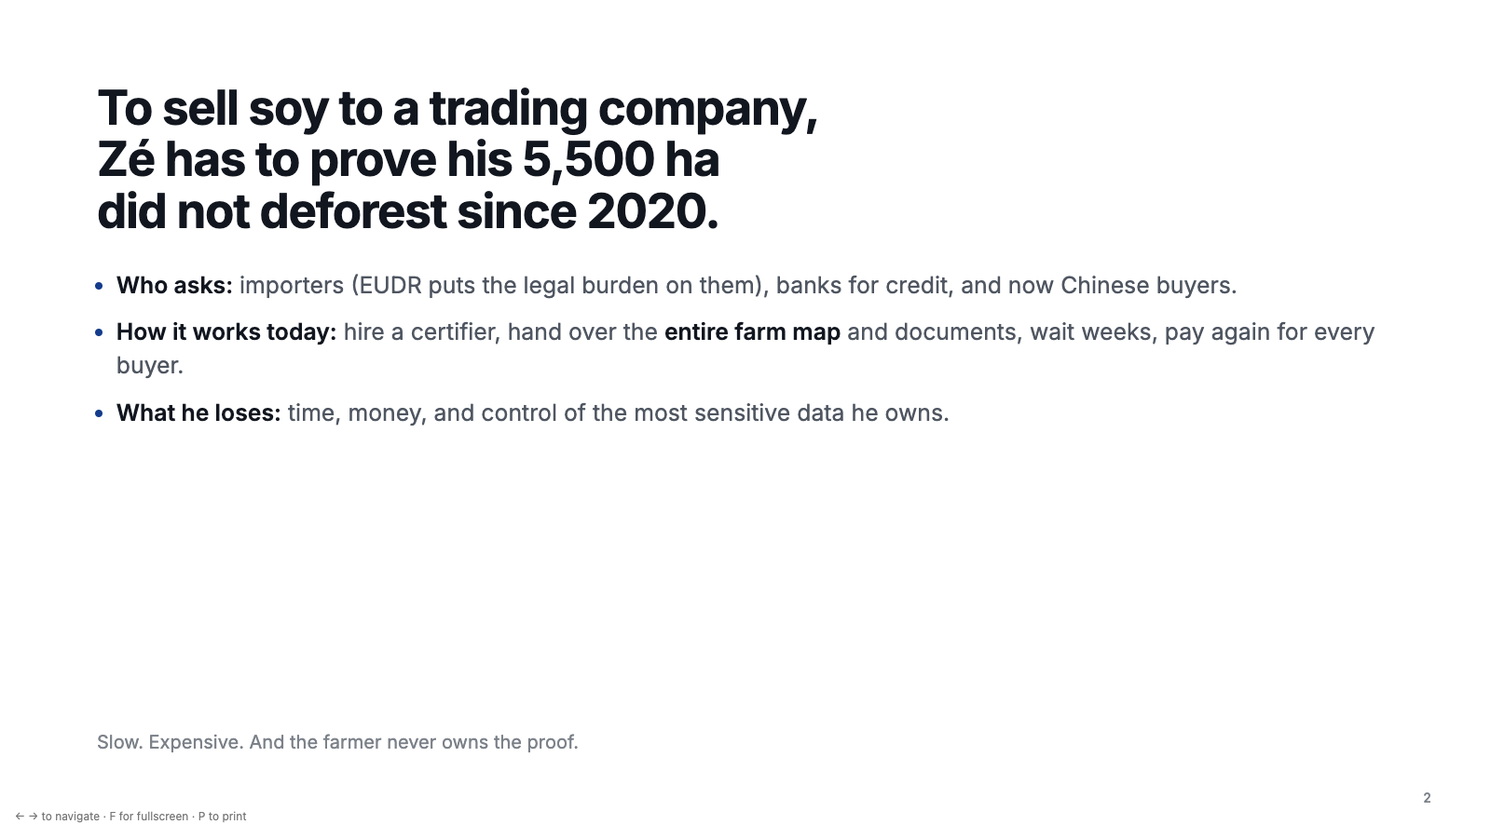
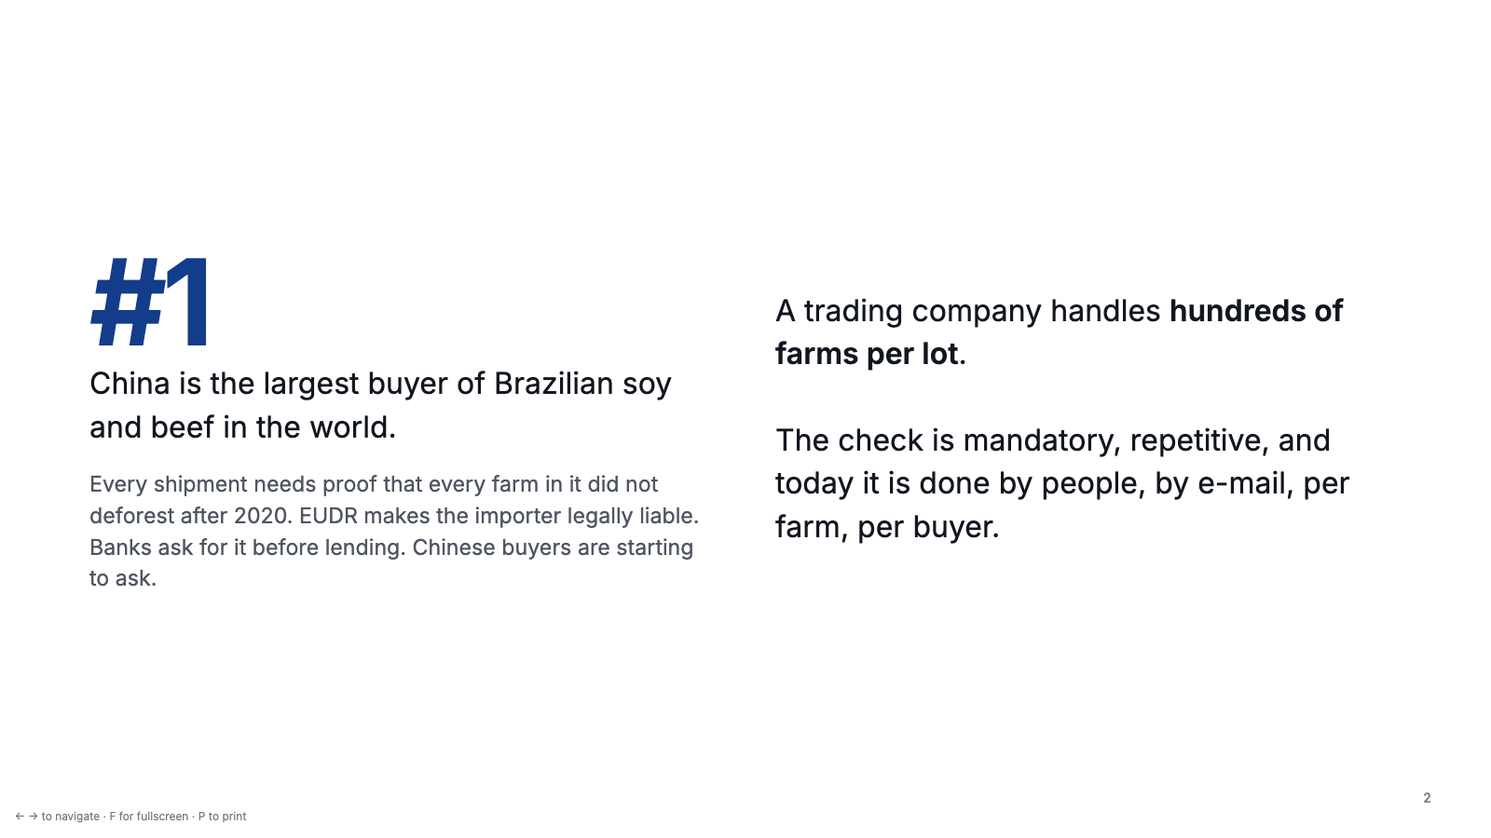
Console: PRODES layer off by default with toggle; slides: trade today vs now, AI/chain split

diff --git a/docs/slides/index.html b/docs/slides/index.html
@@ -8,37 +8,55 @@
 <link href="https://fonts.googleapis.com/css2?family=Inter:wght@400;500;600;700&family=JetBrains+Mono:wght@400;500&display=swap" rel="stylesheet" />
 <style>
   :root { --ink: oklch(0.2 0.02 260); --ink-2: oklch(0.45 0.02 260); --ink-3: oklch(0.6 0.015 260); --line: oklch(0.9 0.006 260);
-          --primary: oklch(0.38 0.14 262); --ok: oklch(0.52 0.15 150); --bad: oklch(0.55 0.19 27); --bg: #fff; }
+          --primary: oklch(0.38 0.14 262); --primary-soft: oklch(0.95 0.03 262); --ok: oklch(0.52 0.15 150); --ok-soft: oklch(0.95 0.05 150); --bad: oklch(0.55 0.19 27); --bad-soft: oklch(0.95 0.04 27); --bg: #fff; }
   * { box-sizing: border-box; }
   html, body { margin: 0; height: 100%; background: #111; font-family: Inter, system-ui, sans-serif; color: var(--ink); }
   .deck { height: 100%; display: grid; place-items: center; }
-  .slide { display: none; width: min(100vw, 177.78vh); aspect-ratio: 16/9; background: var(--bg); padding: 5.5% 6.5%; position: relative; overflow: hidden; }
+  .slide { display: none; width: min(100vw, 177.78vh); aspect-ratio: 16/9; background: var(--bg); padding: 5% 6%; position: relative; overflow: hidden; }
   .slide.on { display: flex; flex-direction: column; }
   .slide .n { position: absolute; right: 4%; bottom: 4%; font: 500 0.9vw/1 'JetBrains Mono', monospace; color: var(--ink-3); }
   h1 { font-size: 5.2vw; font-weight: 700; letter-spacing: -0.03em; line-height: 1.02; margin: 0; text-wrap: balance; }
-  h2 { font-size: 3.2vw; font-weight: 700; letter-spacing: -0.025em; line-height: 1.08; margin: 0 0 2.2vw; text-wrap: balance; max-width: 30ch; }
-  p, li { font-size: 1.55vw; line-height: 1.45; color: var(--ink-2); margin: 0; }
-  ul { margin: 0; padding-left: 1.3em; display: grid; gap: 0.9vw; }
+  h2 { font-size: 3vw; font-weight: 700; letter-spacing: -0.025em; line-height: 1.08; margin: 0 0 1.8vw; text-wrap: balance; max-width: 32ch; }
+  p, li { font-size: 1.45vw; line-height: 1.45; color: var(--ink-2); margin: 0; }
+  ul { margin: 0; padding-left: 1.3em; display: grid; gap: 0.8vw; }
   li::marker { color: var(--primary); }
   b { color: var(--ink); font-weight: 600; }
-  .lead { font-size: 2.1vw; color: var(--ink); max-width: 34ch; }
+  .lead { font-size: 2vw; color: var(--ink); max-width: 34ch; }
   .sub { color: var(--ink-3); font-size: 1.4vw; margin-top: auto; }
-  .accent { color: var(--primary); }
+  .kicker { font-size: 1.2vw; color: var(--primary); font-weight: 600; margin-bottom: 1vw; }
   .two { display: grid; grid-template-columns: 1fr 1fr; gap: 4vw; align-items: center; flex: 1; }
+  .two.top { align-items: start; }
   .shot { width: 100%; border: 1px solid var(--line); border-radius: 0.6vw; display: block; box-shadow: 0 0.6vw 2vw rgba(20,22,60,.08); }
-  .big { font-size: 9vw; font-weight: 700; letter-spacing: -0.04em; line-height: 1; color: var(--primary); }
-  .big + p { margin-top: 1vw; }
-  .flow { display: grid; grid-template-columns: repeat(5, 1fr); gap: 1.4vw; margin-top: 1vw; }
-  .step { border: 1px solid var(--line); border-radius: 0.6vw; padding: 1.4vw; min-height: 14vw; display: flex; flex-direction: column; gap: 0.6vw; }
-  .step i { font: 500 0.95vw 'JetBrains Mono', monospace; color: var(--primary); }
-  .step b { font-size: 1.35vw; }
-  .step p { font-size: 1.1vw; }
-  .step.pay { background: oklch(0.95 0.03 262); border-color: transparent; }
-  .step.priv { background: oklch(0.95 0.05 150); border-color: transparent; }
-  .note { margin-top: auto; font-size: 1.25vw; color: var(--ink-3); }
+  .big { font-size: 8vw; font-weight: 700; letter-spacing: -0.04em; line-height: 1; color: var(--primary); }
+  .note { margin-top: auto; font-size: 1.2vw; color: var(--ink-3); }
   code { font-family: 'JetBrains Mono', monospace; font-size: 0.92em; background: oklch(0.96 0.005 260); padding: 0.1em 0.4em; border-radius: 0.3em; color: var(--ink); }
-  .kicker { font-size: 1.3vw; color: var(--primary); font-weight: 600; margin-bottom: 1.2vw; }
-  .roadmap { display: grid; grid-template-columns: 1fr 1fr; gap: 3vw; flex: 1; }
+  /* timeline */
+  .tl { display: grid; grid-template-columns: 9vw 1fr; gap: 1.2vw 2vw; align-items: start; }
+  .tl .lbl { font-weight: 700; font-size: 1.6vw; padding-top: 1.4vw; }
+  .tl .lbl.bad { color: var(--bad); } .tl .lbl.ok { color: var(--ok); }
+  .chain { display: grid; grid-auto-flow: column; grid-auto-columns: 1fr; gap: 0.8vw; align-items: stretch; }
+  .node { border: 1px solid var(--line); border-radius: 0.8vw; padding: 1.6vw 1.5vw; display: flex; flex-direction: column; gap: 0.7vw; position: relative; min-height: 19vw; }
+  .node b { font-size: 1.55vw; letter-spacing: -0.01em; } .node p { font-size: 1.25vw; line-height: 1.4; }
+  .node i { font: 500 1vw 'JetBrains Mono', monospace; color: var(--ink-3); font-style: normal; }
+  .node.bad { background: var(--bad-soft); border-color: transparent; } .node.bad i { color: var(--bad); }
+  .node.ok { background: var(--ok-soft); border-color: transparent; } .node.ok i { color: var(--ok); }
+  .node.ai { background: var(--primary-soft); border-color: transparent; } .node.ai i { color: var(--primary); }
+  .stat { display: grid; grid-template-columns: repeat(3, 1fr); gap: 1.6vw; margin-top: 2.4vw; }
+  .stat div { border-top: 2px solid var(--line); padding-top: 1vw; }
+  .stat b { display: block; font-size: 2.8vw; letter-spacing: -0.03em; } .stat.bad b { color: var(--bad); } .stat.ok b { color: var(--ok); }
+  .stat span { font-size: 1.3vw; color: var(--ink-3); }
+  /* layers */
+  .layers { display: grid; grid-template-columns: 1fr 1fr; gap: 2vw; flex: 1; }
+  .layer { border-radius: 0.8vw; padding: 1.8vw 2vw; display: flex; flex-direction: column; gap: 1vw; }
+  .layer.ai { background: var(--primary-soft); } .layer.chain { background: oklch(0.96 0.01 200); }
+  .layer h3 { margin: 0; font-size: 1.9vw; letter-spacing: -0.02em; } .layer.ai h3 { color: var(--primary); } .layer.chain h3 { color: oklch(0.4 0.1 200); }
+  .layer li { font-size: 1.5vw; }
+  .layer .why { margin-top: auto; font-size: 1.35vw; color: var(--ink-2); border-top: 1px solid rgba(0,0,0,.08); padding-top: 0.9vw; }
+  .flow { display: grid; grid-template-columns: repeat(5, 1fr); gap: 1.2vw; margin-top: 0.6vw; }
+  .step { border: 1px solid var(--line); border-radius: 0.6vw; padding: 1.3vw; min-height: 13vw; display: flex; flex-direction: column; gap: 0.5vw; }
+  .step i { font: 500 0.9vw 'JetBrains Mono', monospace; color: var(--primary); font-style: normal; }
+  .step b { font-size: 1.3vw; } .step p { font-size: 1.05vw; }
+  .step.pay { background: var(--primary-soft); border-color: transparent; } .step.priv { background: var(--ok-soft); border-color: transparent; }
   .help { position: fixed; left: 1rem; bottom: 1rem; color: #777; font: 12px system-ui; }
   @media print { html, body { background: #fff; } .slide { display: flex !important; page-break-after: always; width: 100%; height: 100vh; } .help { display: none; } }
 </style>
@@ -46,115 +64,146 @@
 <body>
 <div class="deck">
 
+<!-- 1 -->
 <section class="slide on">
   <div class="kicker">EAG Global Buildathon · Floripa · 12 Sep 2026</div>
   <h1>Proof of Field</h1>
-  <p class="lead" style="margin-top:2vw">Farmer-owned deforestation proofs,<br/>sold agent-to-agent for stablecoins.</p>
-  <p class="sub">Murilo Leite · Nixar Solutions · farmer in Abunã, Rondônia<br/>Built on HSK Chain</p>
+  <p class="lead" style="margin-top:2vw">Farmer-owned deforestation proofs,<br/>bought by AI agents, settled on-chain.</p>
+  <p class="sub">Murilo Leite · Nixar Solutions · farmer in Abunã, Rondônia<br/>Live on HSK Chain testnet</p>
   <span class="n">1</span>
 </section>
 
-<section class="slide">
-  <h2>To sell soy to a trading company, Zé has to prove his 5,500 ha did not deforest since 2020.</h2>
-  <ul>
-    <li><b>Who asks:</b> importers (EUDR puts the legal burden on them), banks for credit, and now Chinese buyers.</li>
-    <li><b>How it works today:</b> hire a certifier, hand over the <b>entire farm map</b> and documents, wait weeks, pay again for every buyer.</li>
-    <li><b>What he loses:</b> time, money, and control of the most sensitive data he owns.</li>
-  </ul>
-  <p class="note">Slow. Expensive. And the farmer never owns the proof.</p>
-  <span class="n">2</span>
-</section>
-
+<!-- 2 -->
 <section class="slide">
   <div class="two">
     <div>
       <div class="big">#1</div>
       <p class="lead">China is the largest buyer of Brazilian soy and beef in the world.</p>
-      <p style="margin-top:1.4vw">Every shipment needs a deforestation-free proof for every farm it came from. Traders and banks already pay per farm for that check.</p>
+      <p style="margin-top:1.4vw">Every shipment needs proof that every farm in it did not deforest after 2020. EUDR makes the importer legally liable. Banks ask for it before lending. Chinese buyers are starting to ask.</p>
     </div>
     <div>
-      <p class="lead">The market is not "should farms be checked". It is <b>who does the check, who gets paid, and who keeps the data.</b></p>
+      <p class="lead">A trading company handles <b>hundreds of farms per lot</b>.<br/><br/>The check is mandatory, repetitive, and today it is done by people, by e-mail, per farm, per buyer.</p>
     </div>
   </div>
+  <span class="n">2</span>
+</section>
+
+<!-- 3 -->
+<section class="slide">
+  <h2>How a trade clears today</h2>
+  <div class="tl">
+    <div class="lbl bad">Today</div>
+    <div class="chain">
+      <div class="node bad"><i>day 0</i><b>Trader asks</b><p>Compliance team e-mails each supplier for CAR, maps and documents.</p></div>
+      <div class="node bad"><i>day 1–5</i><b>Farmer sends everything</b><p>Full farm polygon, registry, deeds. To a stranger. Again for the next buyer.</p></div>
+      <div class="node bad"><i>day 5–20</i><b>Due-diligence vendor</b><p>Trader pays a provider per farm to cross-check against PRODES, embargoes, CAR.</p></div>
+      <div class="node bad"><i>day 20+</i><b>PDF report</b><p>A document nobody outside can verify. Bank asks again. Importer asks again.</p></div>
+    </div>
+  </div>
+  <div class="stat bad">
+    <div><b>weeks</b><span>per lot, blocking the sale</span></div>
+    <div><b>R$ per farm, per buyer</b><span>paid by the trader, farmer gets nothing</span></div>
+    <div><b>copies everywhere</b><span>of the farmer's most sensitive data</span></div>
+  </div>
+  <p class="note">The check itself is cheap. The coordination around it is what costs weeks.</p>
   <span class="n">3</span>
 </section>
 
+<!-- 4 -->
+<section class="slide">
+  <h2>How it clears with Proof of Field</h2>
+  <div class="tl">
+    <div class="lbl ok">Now</div>
+    <div class="chain">
+      <div class="node ok"><i>farmer's machine</i><b>Farmer agent checks</b><p>Intersects the field with INPE/PRODES, official data. ~100 ms. Map never leaves the farm.</p></div>
+      <div class="node ok"><i>farmer's machine</i><b>Signs &amp; anchors</b><p>EIP-712 attestation. Only its hash goes on-chain. Proof is now for sale at a price the farmer sets.</p></div>
+      <div class="node ai"><i>trader's machine</i><b>AI buyer agent decides</b><p>One sentence from the operator. Lists proofs, checks its budget, buys what fits the rule, refuses what doesn't.</p></div>
+      <div class="node ai"><i>trader's machine</i><b>Pays, verifies, reports</b><p>HTTP 402 → USDT → proof. Verifies signature + registry itself. Writes the dossier.</p></div>
+    </div>
+  </div>
+  <div class="stat ok">
+    <div><b>~2 minutes</b><span>per lot, unattended</span></div>
+    <div><b>farmer gets paid</b><span>the moment his data is used</span></div>
+    <div><b>zero copies</b><span>of the polygon leave the farm</span></div>
+  </div>
+  <p class="note">Same official data, same check. What changed: who runs it, who owns it, who gets paid, and that anyone can verify the result.</p>
+  <span class="n">4</span>
+</section>
+
+<!-- 5 -->
+<section class="slide">
+  <h2>Where AI sits, where the chain sits</h2>
+  <div class="layers">
+    <div class="layer ai">
+      <h3>AI decides</h3>
+      <ul>
+        <li>The buyer agent is a <b>Claude model with five tools</b>: list proofs, read its own spending policy, buy over x402, skip with a reason, write the report.</li>
+        <li>Input is a sentence: <i>"buy the proofs for this lot, budget 30 USDT, reject any farm with deforestation."</i></li>
+        <li>It handles the messy part: hundreds of farms, edge cases, conflicting instructions, and explains every decision.</li>
+      </ul>
+      <p class="why">Why an agent and not a script: the rules change per buyer, per country, per lot. A script breaks; an agent reads the instruction.</p>
+    </div>
+    <div class="layer chain">
+      <h3>Chain enforces</h3>
+      <ul>
+        <li><b>Registry</b>: the attestation hash is anchored by the farmer's key. Any buyer, bank or auditor verifies it without trusting us.</li>
+        <li><b>Stablecoin</b>: machines don't have bank accounts. USDT is how one program pays another, instantly, to a farmer in Rondônia.</li>
+        <li><b>AgentWallet</b>: daily limit, per-payment limit, allow-listed payees. The AI holds a key that <b>cannot</b> exceed the policy, even if tricked.</li>
+      </ul>
+      <p class="why">Why a chain and not a database: the trader's agent and the farmer's agent don't trust each other, and neither should have to trust a middleman.</p>
+    </div>
+  </div>
+  <span class="n">5</span>
+</section>
+
+<!-- 6 -->
 <section class="slide">
   <div class="kicker">Live demo</div>
   <div class="two">
     <img class="shot" src="02-check-noncompliant.png" alt="Farmer console flagging 26 ha of deforestation" />
     <div>
-      <h2 style="font-size:2.6vw">Draw the field. Check it against INPE. Sign. Anchor. Sell.</h2>
+      <h2 style="font-size:2.5vw">Farmer: draw, check, sign, anchor.<br/>Trader: one sentence.</h2>
       <ul>
-        <li>Official <b>INPE / PRODES</b> deforestation polygons, intersected in ~100 ms.</li>
-        <li>Verdict signed by the farmer (<b>EIP-712</b>), hash anchored on <b>HSK Chain</b>.</li>
-        <li>The polygon <b>never leaves the farmer's machine</b>.</li>
+        <li>Real properties from the CAR registry in Porto Velho, RO. One clean, one with <b>26 ha cleared in 2022</b>.</li>
+        <li>The agent buys the clean one, <b>refuses the other</b>, and says why.</li>
+        <li>Every step is a transaction on <b>HSK Chain</b> you can open in the explorer.</li>
       </ul>
     </div>
-  </div>
-  <span class="n">4</span>
-</section>
-
-<section class="slide">
-  <h2>How it works</h2>
-  <div class="flow">
-    <div class="step priv"><i>farmer · private</i><b>Field ∩ PRODES</b><p>Pure geometry against INPE's public polygons. No ML, no cloud.</p></div>
-    <div class="step priv"><i>farmer · private</i><b>EIP-712 attestation</b><p>Area, ha deforested after 2020, verdict, source, timestamp. Signed.</p></div>
-    <div class="step"><i>HSK Chain</i><b>Anchor</b><p><code>attest(hash, fieldId)</code> in the registry. Only commitments on-chain.</p></div>
-    <div class="step pay"><i>buyer agent · LLM</i><b>Decide, HTTP 402 → pay</b><p>Claude with tools reads one sentence from the operator, decides per farm, pays USDT through an <b>AgentWallet</b> with on-chain limits.</p></div>
-    <div class="step pay"><i>buyer agent · LLM</i><b>Verify &amp; report</b><p>Signature → same farmer anchored it → not revoked. Writes the compliance report.</p></div>
-  </div>
-  <p class="note">No human in the loop. The farmer is paid the second his data is used, and decides who gets it.</p>
-  <span class="n">5</span>
-</section>
-
-<section class="slide">
-  <div class="two">
-    <div>
-      <h2>Why Ethereum, why HSK</h2>
-      <ul>
-        <li><b>Machines don't have bank accounts.</b> A stablecoin is the only way one program pays another, automatically.</li>
-        <li><b>Public registry</b> → any buyer, bank or auditor verifies without trusting the farmer, a certifier, or us.</li>
-        <li><b>AgentWallet</b> → a company funds an agent once, sets daily and per-payment limits and allowed payees, and never hands over its keys. <b>The model decides, the contract enforces.</b></li>
-        <li><b>HSK Chain</b>: EVM, cheap, and where the Asian buyer side lives.</li>
-      </ul>
-    </div>
-    <img class="shot" src="09-llm-buyer-agent.png" alt="LLM buyer agent deciding, paying and verifying proofs" style="max-height:38vw;object-fit:cover;object-position:top" />
   </div>
   <span class="n">6</span>
 </section>
 
+<!-- 7 -->
 <section class="slide">
-  <h2>Open source, reusable, and where this goes</h2>
-  <div class="roadmap">
-    <div>
-      <p class="kicker">Reusable today</p>
-      <ul>
-        <li><code>FieldAttestationRegistry</code> — anchor any signed claim about private data.</li>
-        <li><code>AgentWallet</code> — policy-enforced spending for autonomous agents.</li>
-        <li>x402 seller server — turn any private dataset into a paid, verifiable proof.</li>
-      </ul>
-    </div>
-    <div>
-      <p class="kicker">Next</p>
-      <ul>
-        <li>EIP-3009 gasless settlement, x402 facilitator.</li>
-        <li>ZK proof that <i>field ∩ PRODES = ∅</i> — even the hectares stay private.</li>
-        <li>Sentinel-2 change detection between PRODES releases, on the farmer's machine.</li>
-        <li>Second asset: <b>cattle passports</b> for beef traceability.</li>
-      </ul>
-    </div>
+  <h2>Under the hood</h2>
+  <div class="flow">
+    <div class="step priv"><i>farmer · private</i><b>Field ∩ PRODES</b><p>Pure geometry against INPE's public polygons. No ML, no cloud, runs on a laptop.</p></div>
+    <div class="step priv"><i>farmer · private</i><b>EIP-712 attestation</b><p>Area, ha deforested after 2020, verdict, source, timestamp. Signed by the farmer.</p></div>
+    <div class="step"><i>HSK Chain</i><b>Anchor</b><p><code>attest(hash, fieldId)</code>. Only commitments on-chain. Revocable by the farmer.</p></div>
+    <div class="step pay"><i>buyer · LLM</i><b>402 → AgentWallet.pay</b><p>x402 v1 shape. On-chain USDT transfer, replay-protected, policy-enforced.</p></div>
+    <div class="step pay"><i>buyer · LLM</i><b>Verify &amp; report</b><p>Signature → same farmer anchored it → not revoked. Markdown dossier with every tx.</p></div>
+  </div>
+  <div class="two top" style="margin-top:1.6vw; flex:0">
+    <img class="shot" src="09-llm-buyer-agent.png" alt="LLM buyer agent run" style="max-height:19vw;object-fit:cover;object-position:top" />
+    <ul style="padding-top:0.4vw">
+      <li><b>Honest limits today:</b> settlement by tx hash, not EIP-3009; attestations are self-signed, so this proves authenticity and integrity, not a field inspection.</li>
+      <li><b>Next:</b> EIP-3009 gasless settlement · ZK proof of empty intersection · Sentinel-2 change detection on the farmer's machine · IBAMA embargoes · cattle passports.</li>
+    </ul>
   </div>
   <span class="n">7</span>
 </section>
 
+<!-- 8 -->
 <section class="slide">
   <div class="two">
     <img class="shot" src="07-sale-received.png" alt="Farmer console showing a sale received" />
     <div>
-      <h2>We want this running on farms in Abunã this year.</h2>
-      <p class="lead">Buyers and banks who want to pilot: talk to me.</p>
-      <p style="margin-top:2vw">Murilo Leite<br/>murilo.leite2005@gmail.com<br/><span class="accent">github.com/Muril0zz/proof-of-field</span></p>
+      <h2>Open source. Reusable. Running on my farm this year.</h2>
+      <ul>
+        <li><code>FieldAttestationRegistry</code>, <code>AgentWallet</code> and the x402 seller are generic: any private dataset can become a paid, verifiable proof.</li>
+        <li>Pilot: Abunã, Rondônia, with neighbouring farms. Buyers and banks who want in: talk to me.</li>
+      </ul>
+      <p style="margin-top:2vw">Murilo Leite · murilo.leite2005@gmail.com<br/><span style="color:var(--primary)">github.com/Muril0zz/proof-of-field</span></p>
     </div>
   </div>
   <span class="n">8</span>

diff --git a/apps/web/src/components/MapView.tsx b/apps/web/src/components/MapView.tsx
@@ -9,6 +9,7 @@ export interface MapViewProps {
   field: GeoJSON.Geometry | null;
   intersections: GeoJSON.FeatureCollection | null;
   drawing: boolean;
+  showProdes: boolean;
   onDrawn: (g: GeoJSON.Polygon) => void;
 }
 
@@ -25,7 +26,7 @@ const SATELLITE_STYLE: maplibregl.StyleSpecification = {
   layers: [{ id: 'esri', type: 'raster', source: 'esri' }],
 };
 
-export function MapView({ prodes, field, intersections, drawing, onDrawn }: MapViewProps) {
+export function MapView({ prodes, field, intersections, drawing, showProdes, onDrawn }: MapViewProps) {
   const el = useRef<HTMLDivElement>(null);
   const map = useRef<maplibregl.Map | null>(null);
   const draw = useRef<TerraDraw | null>(null);
@@ -38,8 +39,8 @@ export function MapView({ prodes, field, intersections, drawing, onDrawn }: MapV
     m.addControl(new maplibregl.ScaleControl({ unit: 'metric' }), 'bottom-right');
     m.on('load', () => {
       m.addSource('prodes', { type: 'geojson', data: { type: 'FeatureCollection', features: [] } });
-      m.addLayer({ id: 'prodes-fill', type: 'fill', source: 'prodes', paint: { 'fill-color': ['case', ['>', ['get', 'year'], 2020], '#d6453a', '#8a8f9c'], 'fill-opacity': ['case', ['>', ['get', 'year'], 2020], 0.42, 0.28] } });
-      m.addLayer({ id: 'prodes-line', type: 'line', source: 'prodes', paint: { 'line-color': ['case', ['>', ['get', 'year'], 2020], '#b3261e', '#6b7080'], 'line-width': 0.6, 'line-opacity': 0.8 } });
+      m.addLayer({ id: 'prodes-fill', type: 'fill', source: 'prodes', layout: { visibility: 'none' }, paint: { 'fill-color': ['case', ['>', ['get', 'year'], 2020], '#d6453a', '#8a8f9c'], 'fill-opacity': ['case', ['>', ['get', 'year'], 2020], 0.42, 0.28] } });
+      m.addLayer({ id: 'prodes-line', type: 'line', source: 'prodes', layout: { visibility: 'none' }, paint: { 'line-color': ['case', ['>', ['get', 'year'], 2020], '#b3261e', '#6b7080'], 'line-width': 0.6, 'line-opacity': 0.8 } });
       m.addSource('field', { type: 'geojson', data: { type: 'FeatureCollection', features: [] } });
       m.addLayer({ id: 'field-fill', type: 'fill', source: 'field', paint: { 'fill-color': '#3b3fb6', 'fill-opacity': 0.12 } });
       m.addLayer({ id: 'field-line', type: 'line', source: 'field', paint: { 'line-color': '#ffffff', 'line-width': 2.2 } });
@@ -82,6 +83,7 @@ export function MapView({ prodes, field, intersections, drawing, onDrawn }: MapV
   }), [field]);
   useEffect(() => whenReady((m) => (m.getSource('hits') as maplibregl.GeoJSONSource).setData(intersections ?? { type: 'FeatureCollection', features: [] })), [intersections]);
   useEffect(() => { const d = draw.current; if (!d) return; d.setMode(drawing ? 'polygon' : 'select'); if (!drawing) d.clear(); }, [drawing]);
+  useEffect(() => whenReady((m) => { for (const id of ['prodes-fill', 'prodes-line']) m.setLayoutProperty(id, 'visibility', showProdes ? 'visible' : 'none'); }), [showProdes]);
 
   return <div ref={el} className="map" />;
 }

diff --git a/apps/web/src/App.tsx b/apps/web/src/App.tsx
@@ -16,6 +16,7 @@ export function App() {
   const [flash, setFlash] = useState<string | null>(null);
 
   const [drawing, setDrawing] = useState(false);
+  const [showProdes, setShowProdes] = useState(false);
   const [field, setField] = useState<GeoJSON.Geometry | null>(null);
   const [label, setLabel] = useState<string>('');
   const [report, setReport] = useState<Report | null>(null);
@@ -113,7 +114,7 @@ export function App() {
 
           {(phase !== 'idle') && (
             <section className="section">
-              <h2>Deforestation check <span className="count">INPE / PRODES · since 2020</span></h2>
+              <h2>Compliance check <span className="count">INPE / PRODES · baseline 2020</span></h2>
               {phase === 'checking' && <div className="steps"><div className="step doing"><span className="ic" />Intersecting with {prodes?.features.length.toLocaleString() ?? '…'} PRODES polygons</div></div>}
               {report && phase !== 'checking' && <Verdict report={report} label={label} />}
               {phase === 'checked' && (
@@ -180,14 +181,13 @@ export function App() {
       </aside>
 
       <main className="map-wrap">
-        <MapView prodes={prodes} field={field} intersections={intersections} drawing={drawing} onDrawn={onDrawn} />
+        <MapView prodes={prodes} field={field} intersections={intersections} drawing={drawing} showProdes={showProdes} onDrawn={onDrawn} />
         {drawing && <div className="map-ui tl"><div className="hint">Click to place vertices · click the first point to close · <kbd>Esc</kbd> cancels</div></div>}
         <div className="map-ui bl">
           <div className="legend">
-            <div><i style={{ background: 'rgba(214,69,58,.6)', border: '1px solid #b3261e' }} />PRODES deforestation after 2020</div>
-            <div><i style={{ background: 'rgba(138,143,156,.45)', border: '1px solid #6b7080' }} />PRODES 2020 (baseline year)</div>
             <div><i style={{ background: 'rgba(59,63,182,.2)', border: '1.5px solid #3b3fb6' }} />Your field (private)</div>
-            <div><i style={{ background: '#ff3b2f' }} />Overlap flagged in attestation</div>
+            <div><i style={{ background: '#ff3b2f' }} />Deforestation after 2020 inside your field</div>
+            <label className="toggle"><input type="checkbox" checked={showProdes} onChange={(e) => setShowProdes(e.target.checked)} /> Show full PRODES layer ({prodes?.features.length.toLocaleString() ?? '…'} polygons)</label>
           </div>
         </div>
       </main>

diff --git a/apps/web/src/styles.css b/apps/web/src/styles.css
@@ -142,3 +142,6 @@ code, .mono { font-family: var(--mono); font-size: 12px; }
 .sale .l2 { color: var(--ink-3); font-size: 12px; text-decoration: none; }
 .sale a.l2:hover { color: var(--primary); }
 .sale.flash { background: var(--ok-soft); border-color: oklch(0.85 0.08 150); }
+
+.legend .toggle { display: flex; align-items: center; gap: 6px; margin-top: 4px; padding-top: 6px; border-top: 1px solid var(--line); cursor: pointer; color: var(--ink-2); }
+.legend .toggle input { margin: 0; accent-color: var(--primary); }
